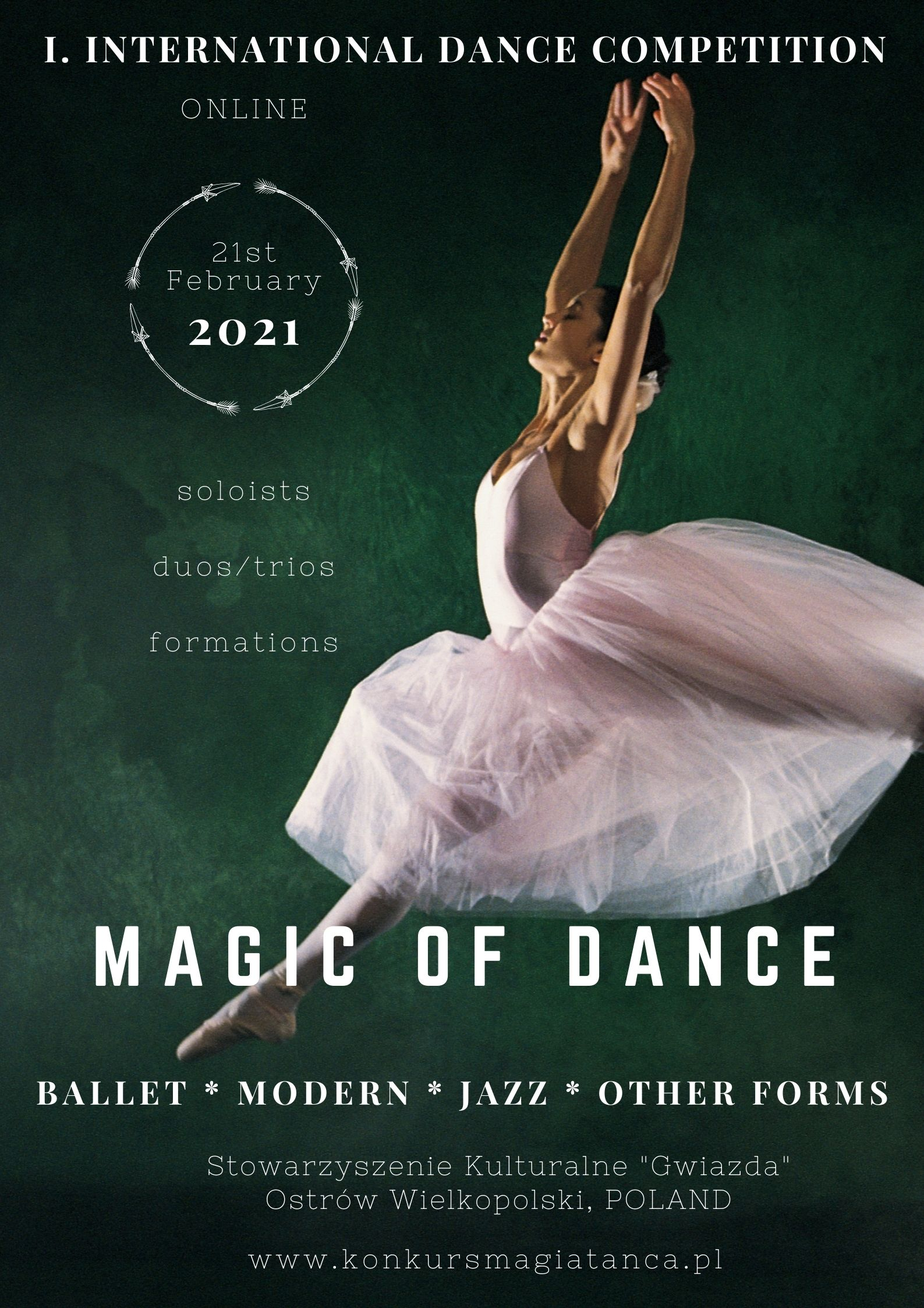
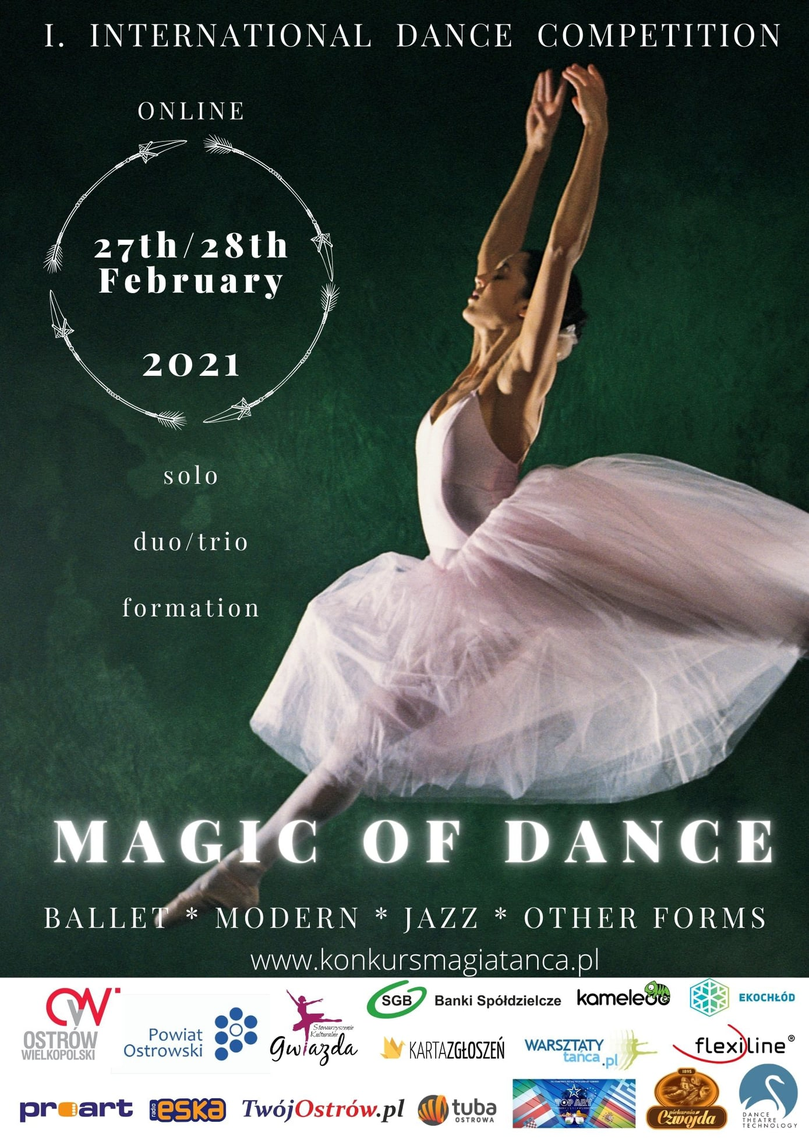
pniewy/poznan/gliwice/swiecie

diff --git a/src/events/2021-05-28-pniewy/index.md b/src/events/2021-05-28-pniewy/index.md
@@ -1,9 +1,9 @@
 ---
 province: ''
 path: '/iii-festiwal-tanca-pniewy-2021'
-date: '2021-01-22'
+date: '2021-02-27'
 
-title: 'III Ogólnopolski Festiwal Tańca w Pniewach'
+title: 'III Ogólnopolski Turniej Tańca Nowoczesnego'
 dateFrom: '2021-05-28'
 dateTo: '2021-05-30'
 city: 'Pniewy'
@@ -14,29 +14,17 @@ promoted: true
 visible: true
 cancelled: false
 ---
-Ogólnopolski Festiwal Tańca w Pniewach objęty patronatem honorowym Marszałka Województwa Wielkopolskiego, Burmistrza Miasta Pniewy i Starosty Powiatu Szamotulskiego po raz pierwszy odbył się 30 listopada 2019 r.
+Zapraszamy na **III Ogólnopolski Turniej Tańca Nowoczesnego**, który odbędzie się podczas dni III Ogólnopolskiego Festiwalu Tańca w Pniewach. 
 
-W roku 2021 odbędzie się trzecia edycja festiwalu. 
+W III edycji TTN zostały wprowadzone dodatkowe podkategorie prezentowanych miniatur tanecznych, m.in.:
+1. **STREET DANCE** (Hip Hop, Break Dance, Electric Boogie, Funk Dance)
+2. **ART DANCE** (Ballet, Modern, Jazz Dance)
+3. **SHOW DANCE** (etiuda/ miniatura taneczna z możliwością wykorzystania własnej scenografii i rekwizytów)
 
-Termin: 28-30.05.2020.
-
-Miejsce: ul. Wolności 20, Hala Widowiskowo-Sportowa OSiR Pniewy. 
-
-Festiwal łączy w sobie dwie formy konkursowe: TTN - Turniej Tańca Nowoczesnego oraz TTP - Turniej Tańca w Powietrzu
-
-W III edycji festiwalu zostały wprowadzone dodatkowe podkategorie prezentowanych miniatur tanecznych:
-
-##### TTN:
-1. Hip-Hop,
-2. Inne Formy (dozwolone są prezentacje Jazz Dance, Modern, Taniec Współczesny),
-3. Taniec Klasyczny,
-4. Show Dance
-
-##### TTP:
-1. Aerial Silk/szarfa,
-2. Aerial Hoop/koło
-3. Art Performance/contortion 
- 
-W ramach festiwalu uczestnicy przedstawiają prezentacje konkursowe solistów, duetów oraz zespołów tanecznych w poszczególnych grupach wiekowych. Ocena zespołów polegała na merytorycznej ocenie występów w kategorii inscenizacji tanecznej – prezentacji artystycznej wybranego tematu przy użyciu technik tanecznych tańca klasycznego, współczesnego i nowoczesnego, w formie miniatur tanecznych i inscenizacji, z wykorzystaniem kostiumów i rekwizytów do wybranego utworu muzycznego.
+W ramach turnieju uczestnicy przedstawiają prezentacje konkursowe solistów, duetów oraz zespołów tanecznych w poszczególnych grupach wiekowych. Ocena prezentacji polegała na merytorycznej ocenie występów w kategorii inscenizacji tanecznej – prezentacji artystycznej wybranego tematu przy użyciu technik tanecznych tańca klasycznego, współczesnego i nowoczesnego, w formie miniatur tanecznych i inscenizacji, z wykorzystaniem kostiumów i rekwizytów do wybranego utworu muzycznego.
 
 Profesjonalne warsztaty, przepiękne występy konkursowe oraz pokazy pozakonkursowe, ciekawi goście, mnóstwo nagród i masa dobrej energii - zapraszamy!
+
+Regulamin i informacje szczegółowe na stronie wydarzenia - http://ft-pniewy.pl 
+
+Zgłoszenia w formie elektronicznej przez serwis: https://moja.kartazgloszen.pl

diff --git a/src/events/2021-03-19-swiecie/index.md b/src/events/2021-03-19-swiecie/index.md
@@ -1,0 +1,33 @@
+---
+province: ''
+path: '/roztanczeni-w-czterech-scianach-2021'
+date: '2021-03-02'
+
+title: 'Roztańczeni w czterech ścianach'
+dateFrom: '2021-03-19'
+dateTo: '2021-03-19'
+city: 'Świecie'
+image: 'image.jpg'
+tags: []
+link: https://www.oksir.eu/wydarzenia/aktualnosci/224-roztanczeni-w-czterech-scianach-konkurs
+promoted: false
+visible: true
+cancelled: false
+---
+Ośrodek Kultury, Sportu i Rekreacji w Świeciu zaprasza do udziału w konkursie tanecznym organizowanym przez Pracownię Taneczną OKSiR.
+
+* Zadanie konkursowe polega na nagraniu krótkiego wideo tanecznego 
+(maksymalnie 1 minuta) przedstawiającego własny układ solo lub w duecie. 
+
+* Zgłoszenie zawierające: skan/zdjęcie podpisanego Oświadczenia o zapoznaniu się z Regulaminem, wypełnioną i podpisaną kartę zgłoszenia oraz link do pobrania materiału wideo, musi zostać przesłane do 17 marca 2021 roku na adres e-mail: nglowala@oksir.eu
+
+* Spośród nadesłanych filmików jury konkursowe
+ (Ewa Pawłowska, Sylwia Rubczak, Marek Maciejewski - BBoy Mojżi) z każdej kategorii tanecznej i wiekowej wybierze finalistów - po 3 uczestników i duety, których prezentacje zostaną zamieszczone 19 marca 2021 o godz. 12:00 na stronie www.oksir.eu oraz www.fb.com/swiecieoksir. Tego samego dnia o godz. 16:00 zostaną opublikowane wyniki konkursu.
+
+Dla wszystkich uczestników przewidziane są dyplomy, a dla finalistów również nagrody rzeczowe i medale przygotowane przez organizatora.
+
+Serdecznie zapraszamy do udziału w konkursie!
+---------------
+Regulamin, karta zgłoszenia oraz Oświadczenie do pobrania na stronie:
+
+https://www.oksir.eu/wydarzenia/aktualnosci/224-roztanczeni-w-czterech-scianach-konkurs

diff --git a/src/events/2021-05-28-pniewy-powietrzu/index.md b/src/events/2021-05-28-pniewy-powietrzu/index.md
@@ -1,0 +1,30 @@
+---
+province: ''
+path: '/turniej-tanca-w-powietrzu-pniewy-2021'
+date: '2021-02-27'
+
+title: 'II Ogólnopolski Turniej Tańca w Powietrzu'
+dateFrom: '2021-05-28'
+dateTo: '2021-05-30'
+city: 'Pniewy'
+image: 'image.jpg'
+tags: []
+link: https://ft-pniewy.pl/
+promoted: true
+visible: true
+cancelled: false
+---
+Zapraszamy na **II Ogólnopolski Turniej Tańca w Powietrzu**, który odbędzie się podczas dni III Ogólnopolskiego Festiwalu Tańca w Pniewach.
+
+W II edycji TTP zostały wprowadzone następne kategorie prezentowanych miniatur tanecznych, m.in.:
+1. **Aerial Silks/szarfa**
+2. **Aerial Hoop/koło**
+3. **Aerial - Inny Formy**
+
+W ramach turnieju uczestnicy przedstawiają prezentacje konkursowe solistów, duetów oraz zespołów tanecznych w poszczególnych grupach wiekowych. Ocena prezentacji polegała na merytorycznej ocenie występów w kategorii inscenizacji tanecznej – prezentacji artystycznej wybranego tematu przy użyciu technik tanecznych tańca klasycznego, współczesnego i nowoczesnego, w formie miniatur tanecznych i inscenizacji, z wykorzystaniem kostiumów i rekwizytów do wybranego utworu muzycznego.
+
+Profesjonalne warsztaty, przepiękne występy konkursowe oraz pokazy pozakonkursowe, ciekawi goście, mnóstwo nagród i masa dobrej energii - zapraszamy!
+
+Regulamin i informacje szczegółowe na stronie wydarzenia - http://ft-pniewy.pl 
+
+Zgłoszenia w formie elektronicznej przez serwis: https://moja.kartazgloszen.pl

diff --git a/src/events/2021-02-27-gliwice/index.md b/src/events/2021-02-27-gliwice/index.md
@@ -1,0 +1,55 @@
+---
+province: ''
+path: '/zouk-zone-vol1-2021'
+date: '2021-02-17'
+
+title: 'Zouk Zone Vol.1'
+dateFrom: '2021-02-27'
+dateTo: '2021-02-27'
+city: 'Gliwice'
+image: 'image.jpg'
+tags: []
+link: https://www.facebook.com/events/441540920301717
+promoted: false
+visible: true
+cancelled: false
+---
+Klub Sportowy 3 Arte Arena Gliwice zaprasza na pierwszą edycję zawodów Zouk Zone vol.1 pod patronatem Federacji Tańca Sportowego.
+
+Pierwsza gliwicka edycja zawodów to prawdziwa taneczna okazja jakich nie było ostatnio wiele. Tego dnia, będziemy prezentować swoje umiejętności, ćwiczyć, wymieniać się doświadczeniem, ale przede wszystkim dobrze się bawić! Czekamy na Ciebie! To dzięki Wam społeczność zouka ciągle się rozrasta. Przyczyń się do rozkwitu tego pięknego stylu tanecznego na Śląsku i w Polsce!
+
+------ Sędziowie i prowadzący ------
+
+👉 Renato Veronezi
+
+👉 Bea Veronezi
+
+👉 Aleksandra Kowalczyk
+
+👉 Wiktor Górnicki
+
+👉 Anna Bul
+
+👉 Paweł Białecki
+
+👉 Beata Grembowska
+
+👉 Brajan Nosal
+
+👉 Katarzyna Terech
+
+👉 Piotr Lerski
+
+----------- DJs -----------
+
+👉 DJ Craanky
+
+👉 DJ Quince
+
+👉 DJ ZoukTurtle
+
+👉 DJ EM
+
+👉 DJ Howi
+
+👉 DJ HushZ

diff --git a/src/events/2021-04-10-gliwice/index.md b/src/events/2021-04-10-gliwice/index.md
@@ -1,0 +1,26 @@
+---
+province: ''
+path: '/ladies-night-contest-2021'
+date: '2021-03-02'
+
+title: Ladies Night Contest
+dateFrom: '2021-04-10'
+dateTo: '2021-04-10'
+city: 'Gliwice'
+image: 'image.jpg'
+tags: []
+link: https://www.facebook.com/events/583118858897123
+promoted: false
+visible: true
+cancelled: false
+---
+Szykuje się okazja jakich ostatnio nie było wiele. Ladies’ Night Contest to turniej odbywający się pod patronatem Federacji Tańca Sportowego. Zawody będą miały charakter maratonu tanecznego 
+
+A wszystko to pod okiem najlepszych Sędziów Formacji Latynoamerykańskich:
+- Sebastian Kubik – Tarnowskie Góry
+- Szymon Głodny – KS 3arte Gliwice
+- Dariusz Selwa – KS 3arte Gliwice
+- Adam Możdżer – Łódź
+- Marek Ciećwierz – Toruń
+- Łukasz Grabowski – Warszawa
+- Tomas Fajgl – Frydek Mistek, Czechy

diff --git a/src/events/2021-04-10-poznan/index.md b/src/events/2021-04-10-poznan/index.md
@@ -1,0 +1,24 @@
+---
+province: ''
+path: '/festiwal-tanca-w-powietrzu-poznan-2021'
+date: '2021-02-27'
+
+title: 'I Międzynarodowy Festiwal Tańca w Powietrzu'
+dateFrom: '2021-04-10'
+dateTo: '2021-04-11'
+city: 'Poznań'
+image: 'image.jpg'
+tags: []
+link: http://ft-poznan.pl/
+promoted: true
+visible: true
+cancelled: false
+---
+Serdecznie zapraszamy miłośników akrobatyki powietrznej na **I Międzynarodowy Festiwal Tańca w Powietrzu** w Poznaniu 10-11.04.2021.
+
+Ideą festiwalu jest promowanie twórczości akrobatyczno-artystycznej oraz kształtowanie procesów wychowawczych poprzez integrację, wymianę doświadczeń i współzawodnictwo fair play.
+
+Regulamin i informacje szczegółowe na stronie wydarzenia - http://ft-poznan.pl 
+
+Zgłoszenia w formie elektronicznej do dnia 01.04.2021 przez serwis: https://moja.kartazgloszen.pl
+

diff --git a/src/events/2021-02-21-online/index.md b/src/events/2021-02-21-online/index.md
@@ -4,8 +4,8 @@ path: '/magic-of-dance-2021'
 date: '2021-01-14'
 
 title: 'International Dance Competition "MAGIC OF DANCE"'
-dateFrom: '2021-02-21'
-dateTo: '2021-02-21'
+dateFrom: '2021-02-27'
+dateTo: '2021-02-28'
 city: 'Online'
 image: 'image.jpg'
 tags: []
